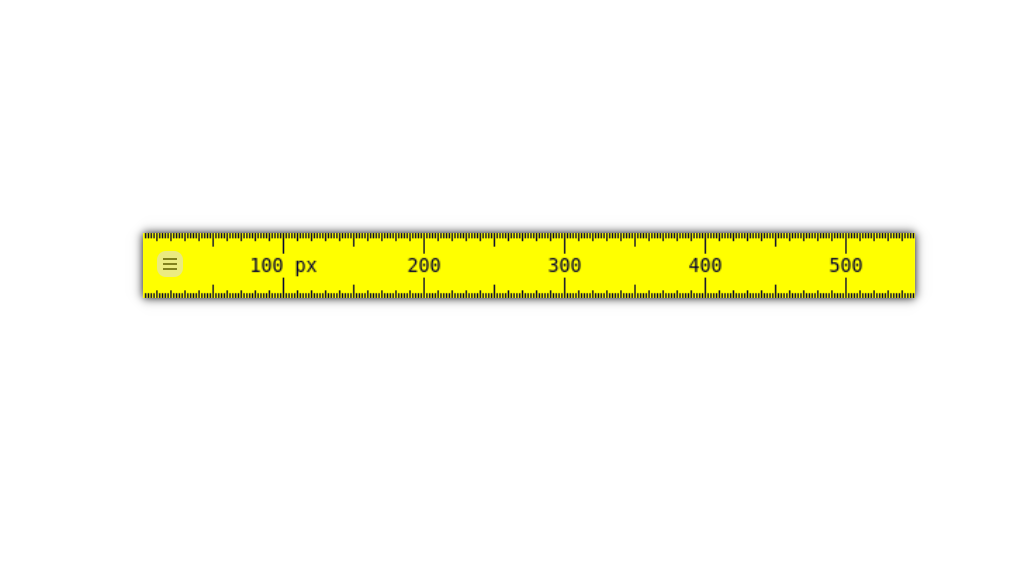
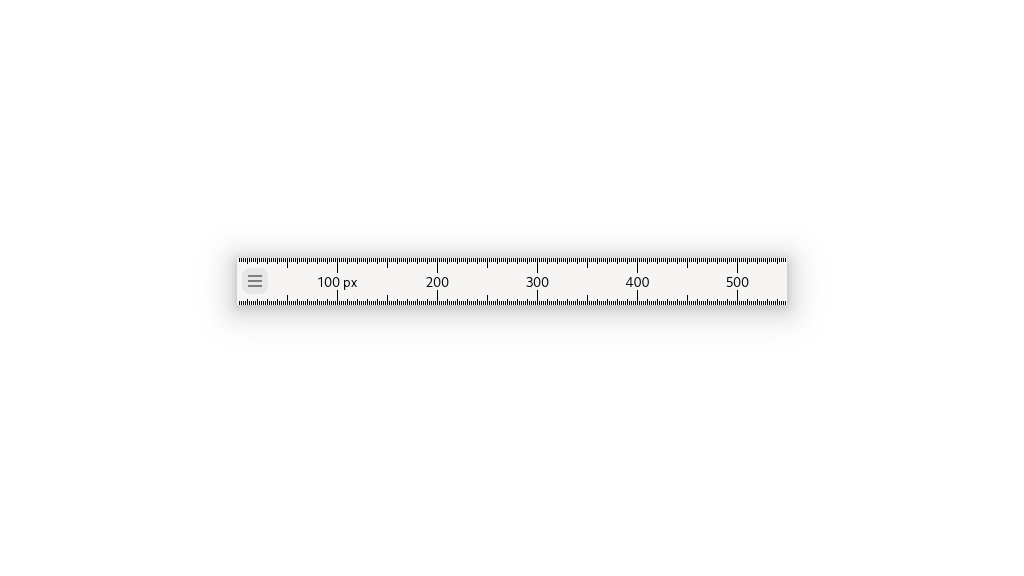
Fix for when GdkMonitor is None (#9)

Changed region(s): [[0.125, 0.375, 0.9062, 0.5625]]

diff --git a/src/unit.py b/src/unit.py
@@ -36,7 +36,7 @@ class Unit:
         """
 
         self._monitor = monitor
-        self._monitor_geometry = monitor.get_geometry()
+        self._monitor_geometry = monitor.get_geometry() if monitor else None
         self._ppmm = None
 
         self.context = context
@@ -60,12 +60,12 @@ class Unit:
     @property
     def monitor_width(self) -> int:
         """Return the monitor width in pixels."""
-        return self._monitor_geometry.width
+        return self._monitor_geometry.width if self._monitor_geometry else 1280
 
     @property
     def monitor_height(self) -> int:
         """Return the monitor height in pixels."""
-        return self._monitor_geometry.height
+        return self._monitor_geometry.height if self._monitor_geometry else 720
 
     @property
     def ppmm_width(self) -> float:
@@ -76,7 +76,7 @@ class Unit:
         if not self.context.compute_monitor_size:
             return self._compute_ppmm()
 
-        if mm := self._monitor.get_width_mm():
+        if self._monitor and (mm := self._monitor.get_width_mm()):
             return self.monitor_width / mm
         else:
             # Some environments do not provide the monitor size (mm == 0).
@@ -94,7 +94,7 @@ class Unit:
         if not self.context.compute_monitor_size:
             return self._compute_ppmm()
 
-        if mm := self._monitor.get_height_mm():
+        if self._monitor and (mm := self._monitor.get_height_mm()):
             return self.monitor_height / mm
         else:
             # Some environments do not provide the monitor size (mm == 0).

diff --git a/src/draw_context.py b/src/draw_context.py
@@ -61,8 +61,8 @@ class DrawContext:
         self.offset: float = 0.0
 
         # Colors (RGBA)
-        self.color_fg: list[float] = [0, 0, 0.20, 1.0]
-        self.color_bg: list[float] = [1.0, 1.0, 0.0, 1.0]
+        self.color_fg: list[float] = [0.0, 0.0, 0.0, 1.0]
+        self.color_bg: list[float] = [1.0, 1.0, 1.0, 1.0]
         self.color_track: list[float] = [1.0, 0.0, 0.0, 1.0]
 
         # Font
@@ -86,8 +86,8 @@ class DrawContext:
 
         # Colors
         if self.settings.get_boolean("use-default-color"):
-            self.color_fg = [0, 0, 0.20, 1.0]
-            self.color_bg = [1.0, 1.0, 0.0, 1.0]
+            self.color_fg = [0.0, 0.0, 0.0, 1.0]
+            self.color_bg = [1.0, 1.0, 1.0, 1.0]
         else:
             self.color_fg = self.settings.get_value("foreground-color")
             self.color_bg = self.settings.get_value("background-color")

diff --git a/CHANGELOG.rst b/CHANGELOG.rst
@@ -4,6 +4,16 @@ Length Release Notes
 
 .. contents:: Topics
 
+v0.2.1
+======
+
+Bugfixes
+--------
+
+- Fix quality issues per the quality guidelines.
+- Fix issue for when GdkMonitor is None.
+
+
 v0.2.0
 ======
 
